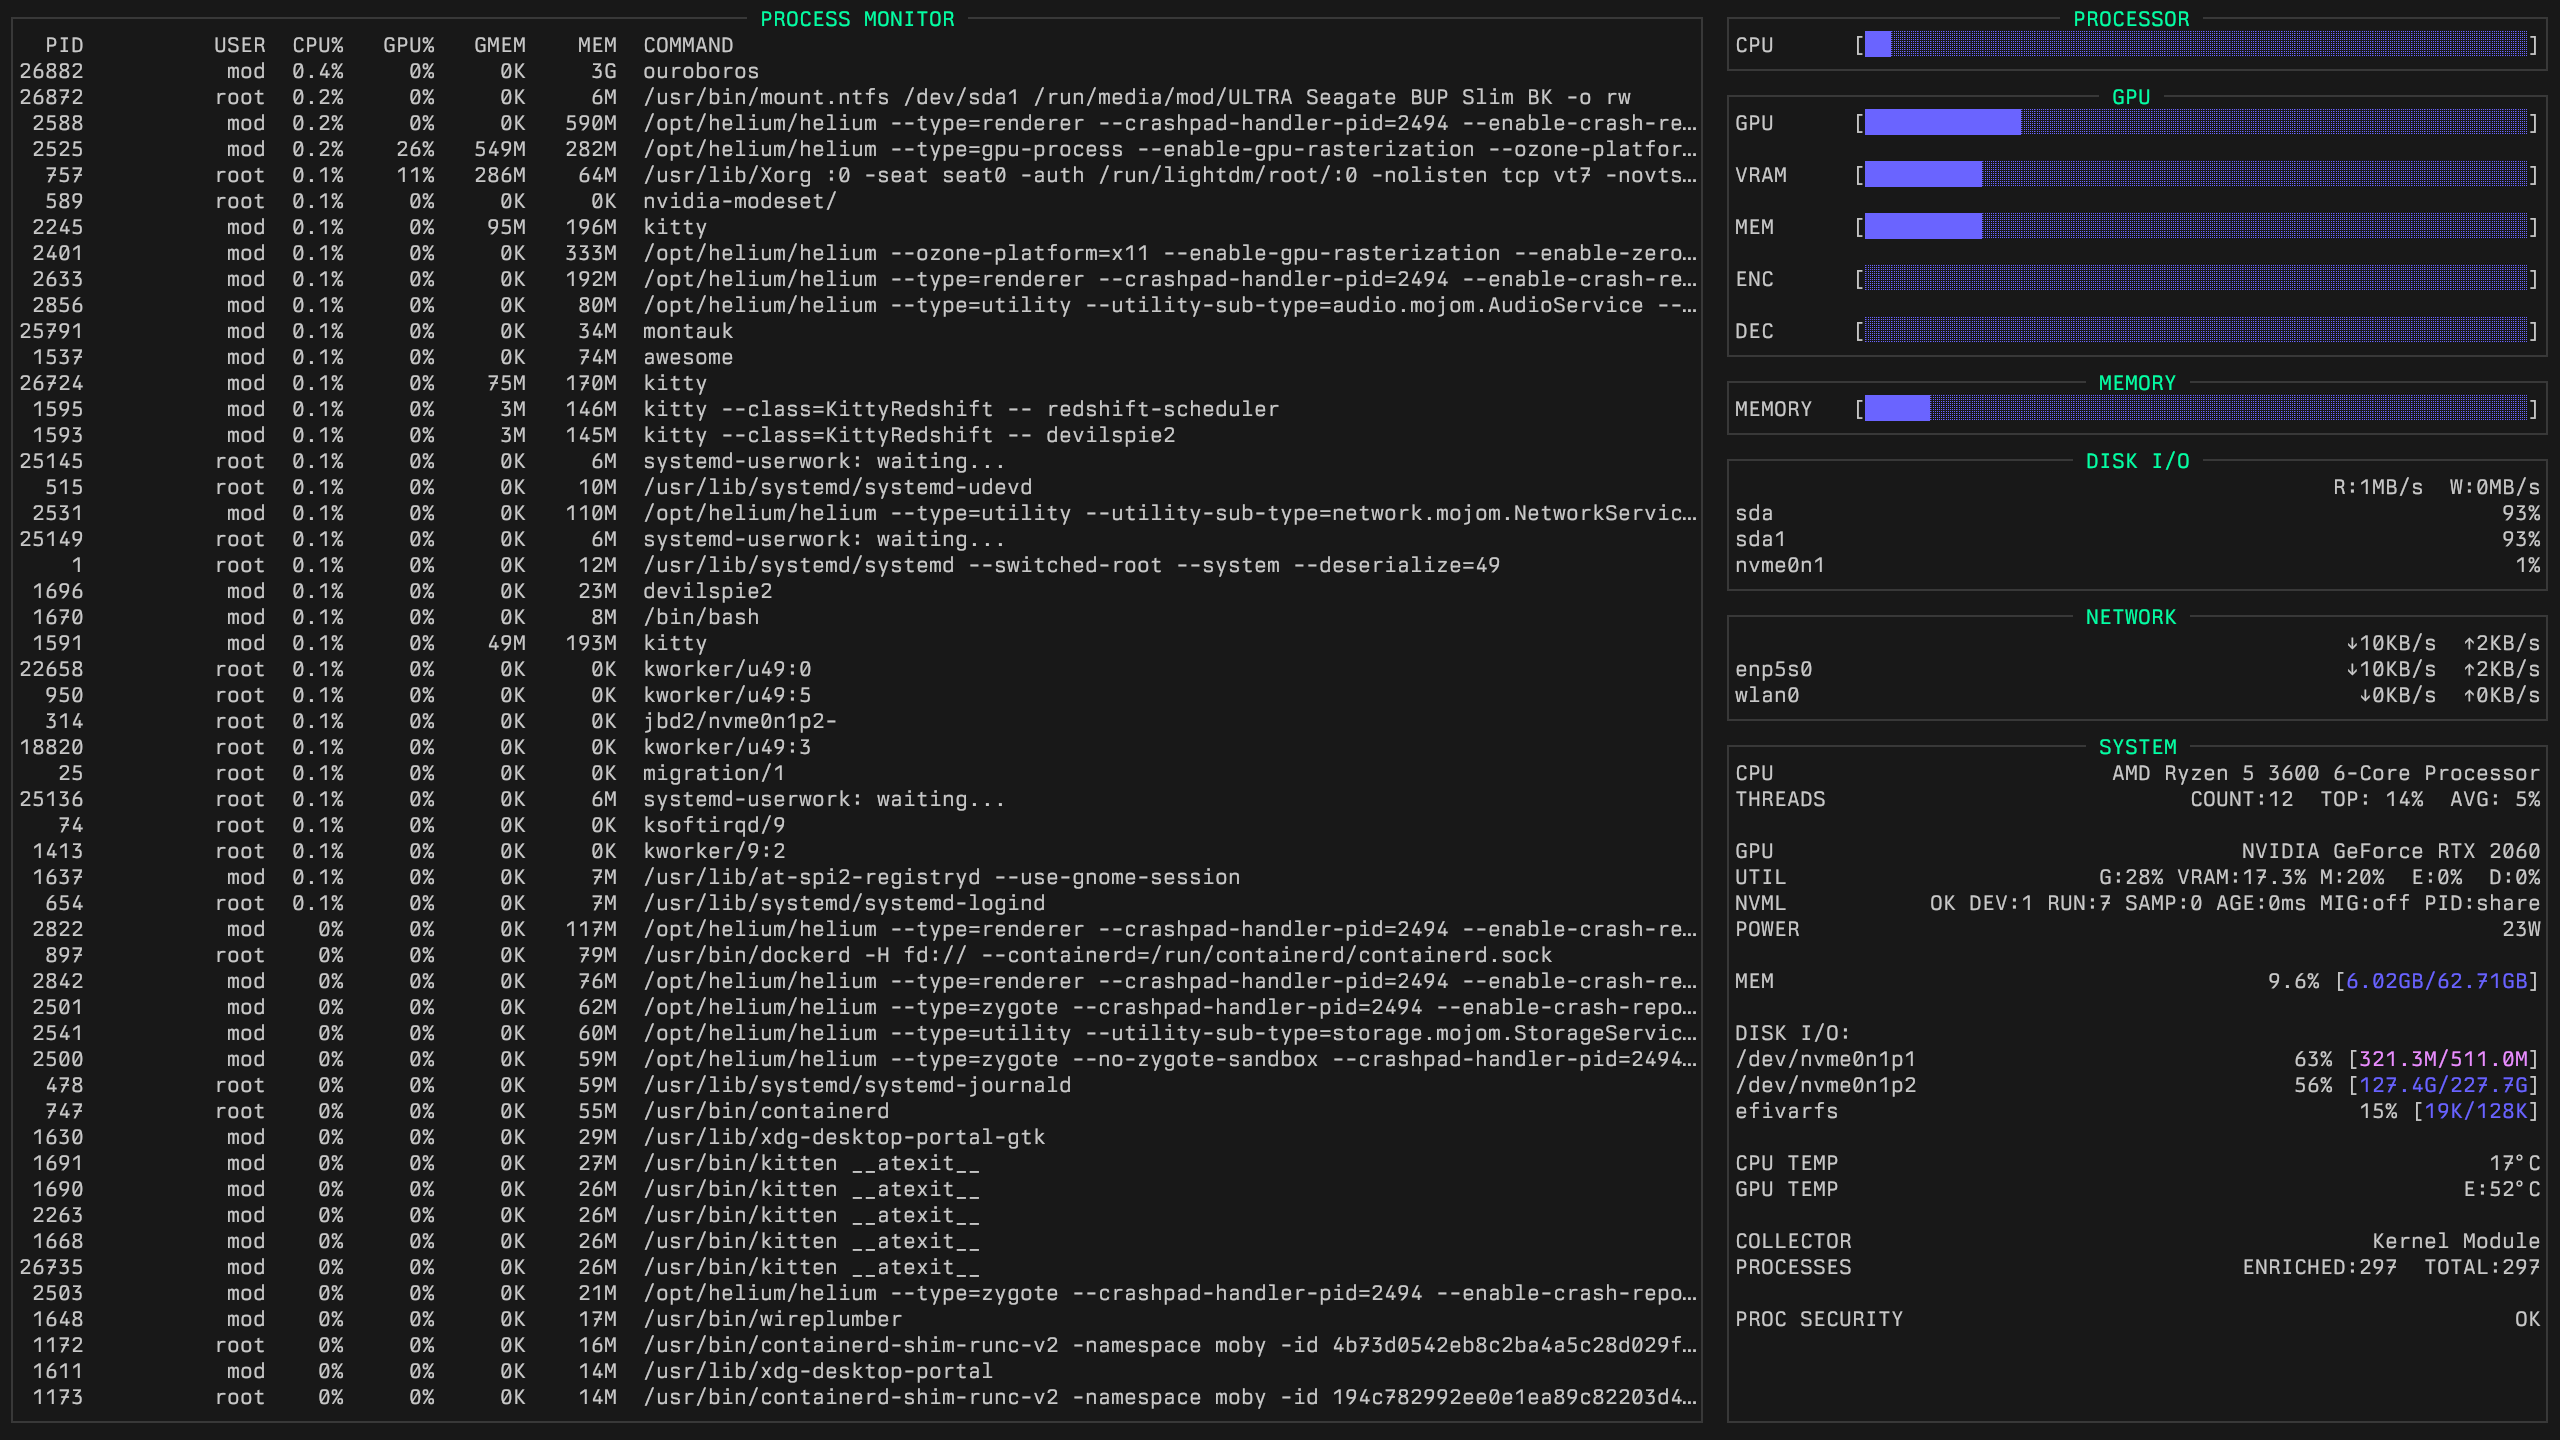
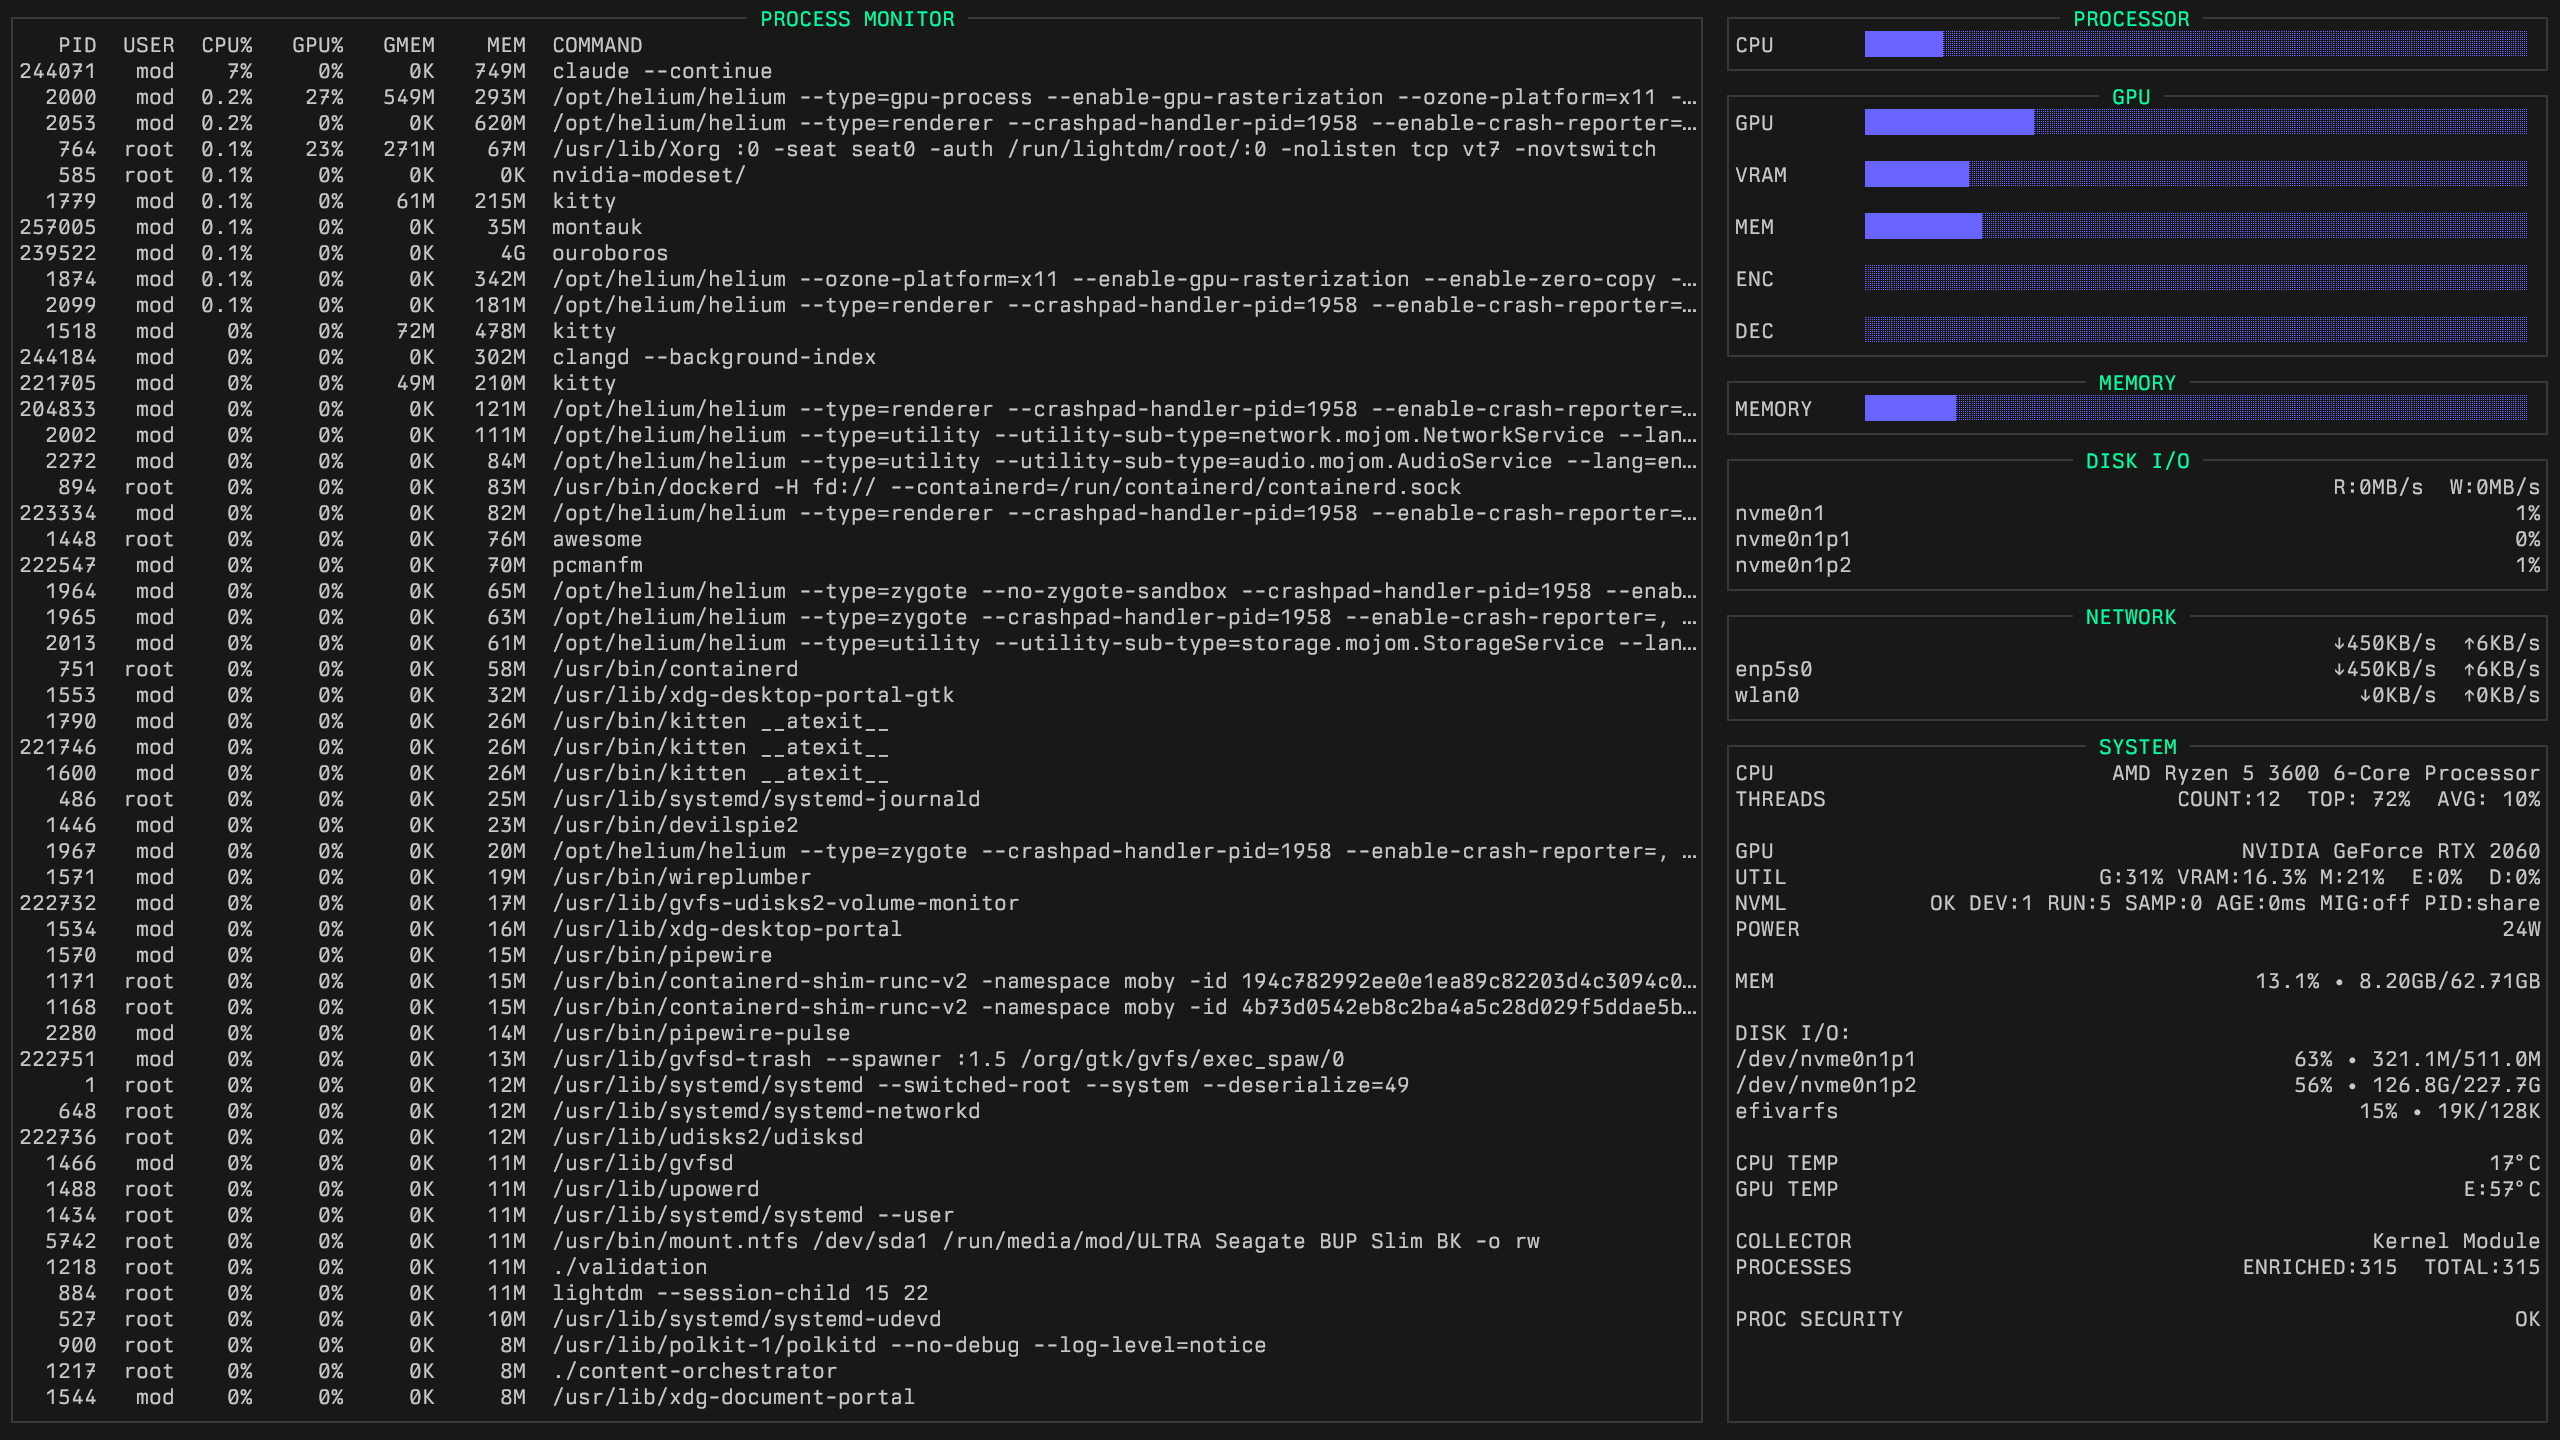
montaukv2.0.12: UI cleanup, removal of [, ] characters.

diff --git a/src/ui/Renderer.cpp b/src/ui/Renderer.cpp
@@ -103,23 +103,42 @@ static std::string colorize_line_impl(const std::string& s) {
     auto color_bar = [&](const std::string& part)->std::string{
       // If the part already contains ANSI escape codes, don't recolor it
       if (part.find('\x1B') != std::string::npos) return part;
-      
-      size_t lb = part.find('[');
-      size_t rb = (lb!=std::string::npos) ? part.find(']', lb+1) : std::string::npos;
-      if (lb==std::string::npos || rb==std::string::npos || rb<=lb) return part;
-      
+
+      // Find bar by locating block characters (█ or ░)
+      const std::string full = "█";
+      const std::string empty = "░";
+      size_t bar_start = part.find(full);
+      if (bar_start == std::string::npos) bar_start = part.find(empty);
+      if (bar_start == std::string::npos) return part;
+
+      // Find end of bar (last block character)
+      size_t bar_end = bar_start;
+      size_t pos = bar_start;
+      while (pos < part.size()) {
+        size_t f = part.find(full, pos);
+        size_t e = part.find(empty, pos);
+        size_t next = std::string::npos;
+        if (f != std::string::npos && e != std::string::npos) next = std::min(f, e);
+        else if (f != std::string::npos) next = f;
+        else if (e != std::string::npos) next = e;
+        if (next == std::string::npos || next > bar_end + 4) break; // gap means end of bar
+        bar_end = next + ((part.compare(next, full.size(), full) == 0) ? full.size() : empty.size());
+        pos = bar_end;
+      }
+      if (bar_end <= bar_start) return part;
+
       double pct = -1.0; {
         size_t p = part.rfind('%');
         if (p != std::string::npos) {
-          size_t st = p; 
+          size_t st = p;
           while (st>0 && (std::isdigit((unsigned char)part[st-1]) || part[st-1]=='.')) --st;
           try { pct = std::stod(part.substr(st, p-st)); } catch (...) { pct = -1.0; }
         }
       }
-      
-      std::string pre2 = part.substr(0, lb+1);
-      std::string bar = part.substr(lb+1, rb - (lb+1));
-      std::string suf2 = part.substr(rb);
+
+      std::string pre2 = part.substr(0, bar_start);
+      std::string bar = part.substr(bar_start, bar_end - bar_start);
+      std::string suf2 = part.substr(bar_end);
       
       if (pct < 0.0) {
         int total = display_cols(bar);

diff --git a/src/ui/Panels.cpp b/src/ui/Panels.cpp
@@ -272,7 +272,7 @@ std::vector<std::string> render_right_column(const montauk::model::Snapshot& s, 
           if (utilp > 100) utilp = 100;
         }
         std::ostringstream rr; 
-        rr << "[" << utilp << "% UTIL] " << (int)(s.vram.power_limit_w+0.5) << "W";
+        rr << utilp << "% UTIL • " << (int)(s.vram.power_limit_w+0.5) << "W";
         push(lr_align(iw, "PLIMIT", rr.str()), 0);
       }
       if (s.vram.has_pstate) {
@@ -290,8 +290,8 @@ std::vector<std::string> render_right_column(const montauk::model::Snapshot& s, 
       if (g_ui.system_focus && s.mem.available_kb > 0) {
         rr << "AVAILABLE:" << std::fixed << std::setprecision(0) << mem_avail_gb << "GB  ";
       }
-      rr << std::fixed << std::setprecision(1) << s.mem.used_pct << "% ["
-         << std::setprecision(2) << mem_used_gb << "GB/" << mem_tot_gb << "GB]";
+      rr << std::fixed << std::setprecision(1) << s.mem.used_pct << "% • "
+         << std::setprecision(2) << mem_used_gb << "GB/" << mem_tot_gb << "GB";
       push(lr_align(iw, "MEM", rr.str()), 0);
     }
     if (g_ui.system_focus) {
@@ -324,8 +324,8 @@ std::vector<std::string> render_right_column(const montauk::model::Snapshot& s, 
       size_t lim = std::min<size_t>(s.fs.mounts.size(), 3);
       for (size_t i=0;i<lim;i++) {
         const auto& m = s.fs.mounts[i];
-        std::ostringstream right; right << (int)(m.used_pct+0.5) << "% ["
-                                        << human_bytes(m.used_bytes) << "/" << human_bytes(m.total_bytes) << "]";
+        std::ostringstream right; right << (int)(m.used_pct+0.5) << "% • "
+                                        << human_bytes(m.used_bytes) << "/" << human_bytes(m.total_bytes);
         std::string left = m.device.empty() ? m.fstype : m.device;
         push(lr_align(iw, left, right.str()), 0);
       }

diff --git a/src/main.cpp b/src/main.cpp
@@ -248,7 +248,7 @@ int main(int argc, char** argv) {
       std::ostringstream os; os << ui.warning << "ALERT: top CPU " << (int)(top_cpu+0.5) << "%" << sgr_reset() << "  ";
       alert = os.str();
     }
-    std::string dyn_help = alert + "[sort:" + sort_name + "] [focus:" + (g_ui.system_focus? "system":"default") + "] [fps:" + std::to_string(fps) + "]  " + help_text;
+    std::string dyn_help = alert + "SORT:" + sort_name + " • FOCUS:" + (g_ui.system_focus? "SYSTEM":"DEFAULT") + " • FPS:" + std::to_string(fps) + "  " + help_text;
     montauk::ui::render_screen(s, show_help, dyn_help);
   }
   producer.stop();

diff --git a/src/app/Security.cpp b/src/app/Security.cpp
@@ -160,7 +160,7 @@ std::vector<SecurityFinding> collect_security_findings(const montauk::model::Sna
         std::string reason = "auth crashloop";
         std::ostringstream subj;
         subj << "PID " << p.pid << ' ' << (p.user_name.empty() ? "?" : p.user_name)
-             << ' ' << p.cmd << " [" << s.churn.recent_2s_events << " events/2s]";
+             << ' ' << p.cmd << " • " << s.churn.recent_2s_events << " events/2s";
         add_finding(2, subj.str(), reason);
         flagged_pids.insert(p.pid);
       }

diff --git a/src/util/Retro.cpp b/src/util/Retro.cpp
@@ -10,11 +10,11 @@ auto retro_bar(double pct, int width, const std::string& fill, const std::string
   if (filled > width) filled = width;
   std::string s;
   s.reserve(width + 10);
-  s.push_back('[');
+  s.push_back(' ');
   for (int i = 0; i < width; ++i) {
     if (i < filled) s += fill; else s += track;
   }
-  s.push_back(']');
+  s.push_back(' ');
   return s;
 }
 
